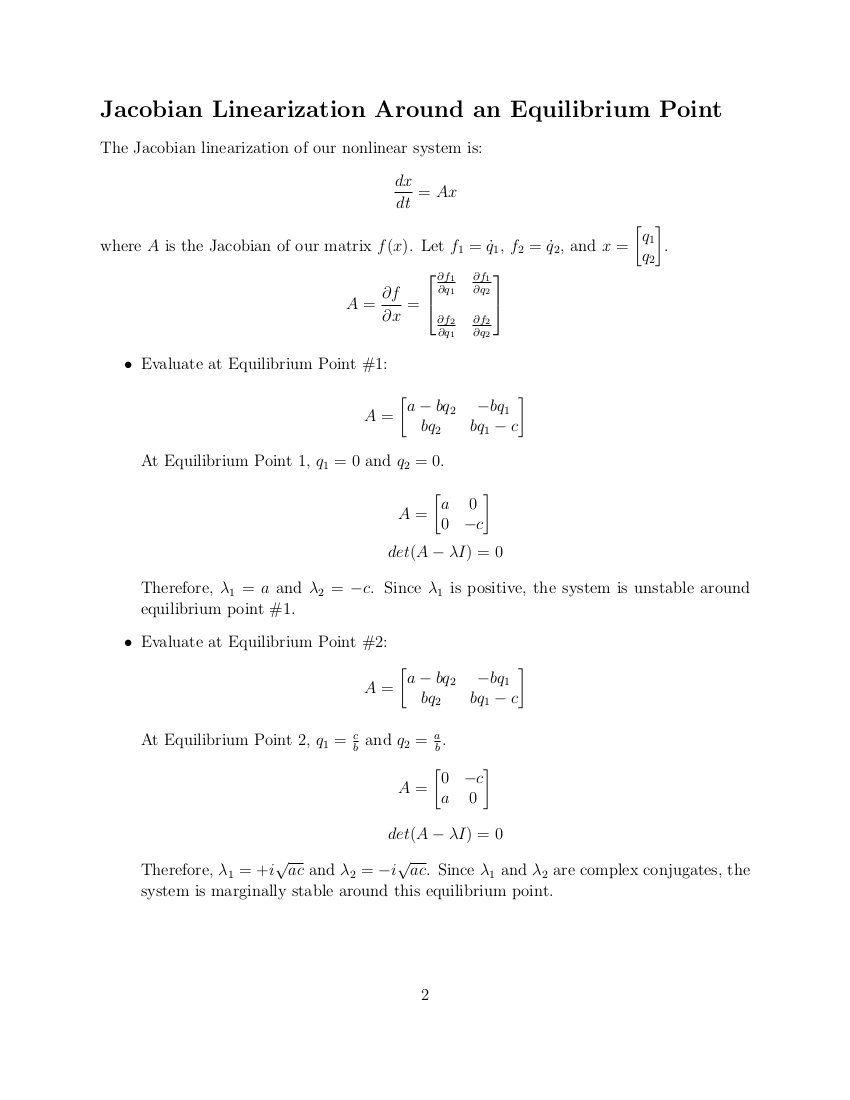
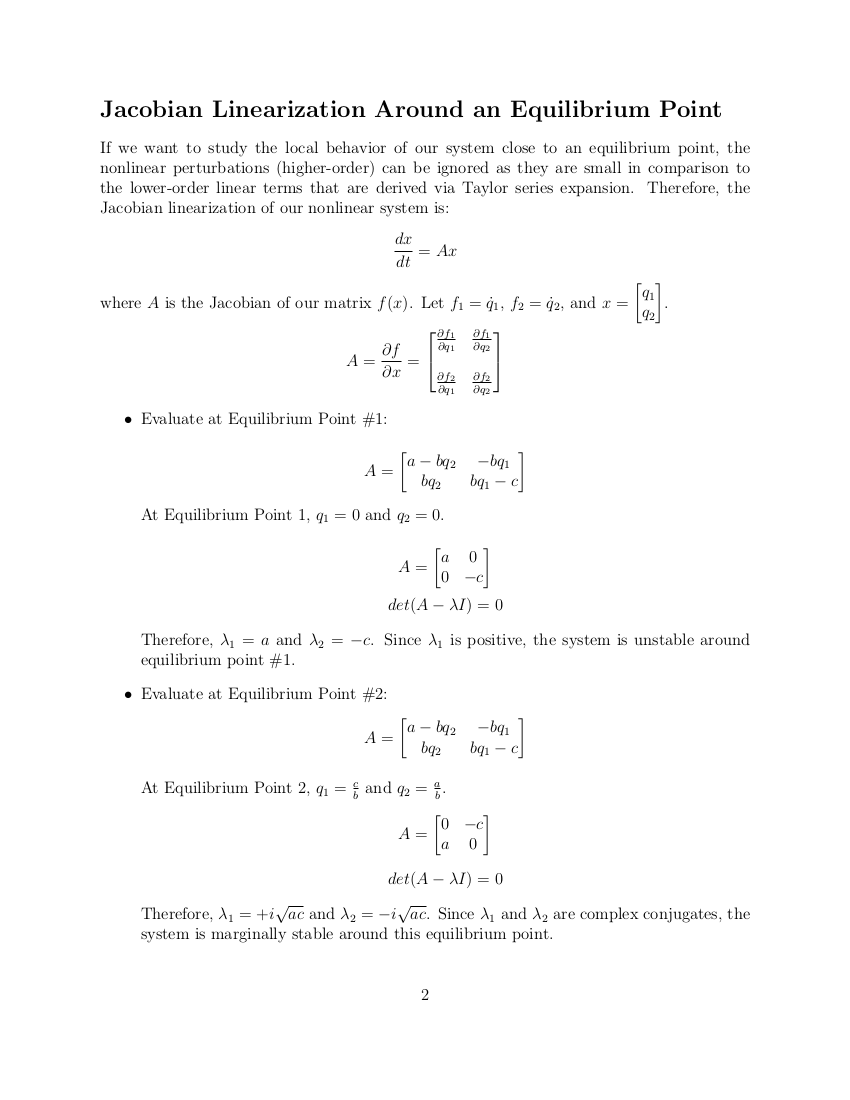
clarify jacobian

diff --git a/linearization/docs/linearization.tex b/linearization/docs/linearization.tex
@@ -44,7 +44,7 @@
 
 	\section*{Jacobian Linearization Around an Equilibrium Point}
 	
-	The Jacobian linearization of our nonlinear system is:
+	If we want to study the local behavior of our system close to an equilibrium point, the nonlinear perturbations (higher-order) can be ignored as they are small in comparison to the lower-order linear terms that are derived via Taylor series expansion. Therefore, the Jacobian linearization of our nonlinear system is:
 		$$\frac{dx}{dt} = Ax$$
 	where $A$ is the Jacobian of our matrix $f(x)$.
 	Let $f_1 = \dot q_1$, $f_2 = \dot q_2$, and $x = \begin{bmatrix} q_1 \\ q_2 \end{bmatrix}$.
@@ -85,7 +85,7 @@
 
 	Choosing arbitrary constants $a, b, c$, we can simulate the response of this system for varying initial conditions. We choose a small time step, $\Delta t$, and assume that $f$ is constant during the interval. Under these assumptions, $q$ can be iteratively updated by
 	$$q_{t + \Delta t} = q_t + \Delta t \dot{q_t} = q_t + \Delta t f(q)$$
-	We choose a step size of $\Delta T = 0.1$, set constants $a = b = c = 1$, and plot the trajectory of $q_1$ vs $q_2$ over 20s for the following initial conditions:
+	We choose a step size of $\Delta t = 0.1$, set constants $a = b = c = 1$, and plot the trajectory of $q_1$ vs $q_2$ over 20s for the following initial conditions:
 	\begin{itemize}
 		\item $q_1 = 1$, $q_2 = 3$
 		\item $q_1 = 1.1$, $q_2 = 1$
